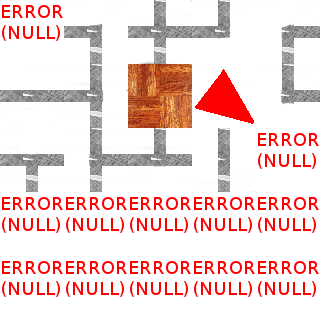
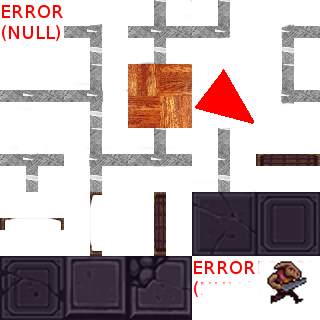
implemented additional map interfaces

Changed region(s): [[0.0, 0.5938, 1.0, 1.0], [0.7812, 0.4062, 1.0, 0.5312]]

diff --git a/src/scene_game.cpp b/src/scene_game.cpp
@@ -135,6 +135,9 @@ void SceneGame::OnUpdate(int timems)
 			pcpos_before_x=pcpos_after_x;
 		if (posY==target_y)
 			pcpos_before_y=pcpos_after_y;
+
+		map->GetFieldAt(pcpos_before_x,pcpos_before_y)
+			->SteppedOver();
 		_player->setPos(posX, posY);
 
 		//EngineInst->font()->printTextLT(20, 20, "MSCN");
@@ -147,11 +150,21 @@ void SceneGame::OnRender(SDL_Renderer* renderer)
 		int sizeDst = _tiles->getTileSizeDst();
 		int tilesNums = _tiles->getTilesNums();
 		//for (int i =  0 ; i<tilesNums; ++i) {
+		srand(1);
+		for (int i = 0 ; i!=map->GetHeight()-1; i++) {
+			for (int j = 0 ; j!=map->GetWidth()-1; ++j) {
+				_tiles->renderTile(renderer,
+						   j * sizeDst+sizeDst/2,
+						   i * sizeDst+0.5*sizeDst,
+						   18+rand()%5);
+			}
+		}
 		for (int i = 0 ; i!=map->GetHeight(); i++) {
 			for (int j = 0 ; j!=map->GetWidth(); ++j) {
 				int field= map->GetFieldAt(j,i)->GetType();
 				int tile=  map->GetFieldAt(j,i)->GetTileId();
-
+				if (field==IField::FLOOR)
+					continue;
 				int col = j;// % 20 + 2;
 				int row = i;// 20 + 2;
 				_tiles->renderTile(renderer, col * sizeDst, row * sizeDst, tile);

diff --git a/src/MapLogic/field.cpp b/src/MapLogic/field.cpp
@@ -1,4 +1,5 @@
 #include "field.h"
+#include <cassert>
 #include "field_impl.h"
 int Field::assigned_field[NUM_FIELD_TYPES];
 
@@ -22,10 +23,21 @@ void Field::EnsureFieldIdsInitialized()
 	assigned_field[T_BOTTOM] =  10;
 	assigned_field[FLOOR] = 7;
 	assigned_field[DOOR] = 7;
+	assigned_field[DOOR_VERTICAL_CLOSED] = 17;
+	assigned_field[DOOR_VERTICAL_OPEN] = 16;
+	assigned_field[DOOR_HORIZONTAL_CLOSED] = 14;
+	assigned_field[DOOR_HORIZONTAL_OPEN] = 15;
 	initialized = true;
 }
 int Field::GetTileId()
 {
 	EnsureFieldIdsInitialized();
 	return assigned_field[GetType()];
+}
+void Field::SteppedOver()
+{
+	if (type==DOOR_VERTICAL_CLOSED)
+		type=DOOR_VERTICAL_OPEN;
+	if (type==DOOR_HORIZONTAL_CLOSED)
+		type=DOOR_HORIZONTAL_OPEN;
 }

diff --git a/src/MapLogic/map.cpp b/src/MapLogic/map.cpp
@@ -84,6 +84,12 @@ LoadedMap::LoadedMap(const char * path) {
 	for (int i = 0 ; i!=GetHeight(); i++) {
 		for (int j = 0 ; j!=GetWidth(); ++j) {
 			IField * field = GetFieldAt(j,i);
+			if (field->GetType() == IField::DOOR) {
+				if (HasWallAt(j,i-1) && HasWallAt(j,i+1) ) // horizontal piece
+					dynamic_cast <Field*>(field)->SetType(IField::DOOR_VERTICAL_CLOSED);
+				else if (HasWallAt(j-1,i) && HasWallAt(j+1,i) ) // T junction
+					dynamic_cast <Field*>(field)->SetType(IField::DOOR_HORIZONTAL_CLOSED);
+			}
 			if (field->GetType() != IField::WALL)
 				continue;
 			if (HasWallAt(j,i-1) && HasWallAt(j,i+1) && HasWallAt(j+1,i) && HasWallAt(j-1,i) ) // cross

diff --git a/src/MapLogic/field.h b/src/MapLogic/field.h
@@ -25,8 +25,10 @@ public:
 		FLOOR,
 		DESK,
 		DOOR,
-		DOOR_HORIZONTAL,
-		DOOR_VERTICAL,
+		DOOR_HORIZONTAL_CLOSED,
+		DOOR_VERTICAL_CLOSED,
+		DOOR_HORIZONTAL_OPEN,
+		DOOR_VERTICAL_OPEN,
 		MEDKIT,
 
 		NUM_FIELD_TYPES
@@ -41,6 +43,7 @@ public:
 	 */
 	virtual int GetTileId()=0;
 	// other methods will be specific to certain types
+	virtual void SteppedOver()=0;
 };
 
 #endif

diff --git a/src/MapLogic/generic_map.h b/src/MapLogic/generic_map.h
@@ -64,7 +64,8 @@ protected:
 		if (field->GetType() <=IField::T_BOTTOM &&
 		    field->GetType() >=IField::WALL)
 			return true;
-		if (field->GetType() == IField::DOOR)
+		if (field->GetType() <= IField::DOOR_VERTICAL_OPEN &&
+		    field->GetType() >= IField::DOOR)
 			return true;
 		return false;
 	}

diff --git a/src/MapLogic/field_impl.h b/src/MapLogic/field_impl.h
@@ -20,6 +20,8 @@ public:
 	{
 		type=f;
 	}
+	void SteppedOver();
+
 };
 
 #endif
